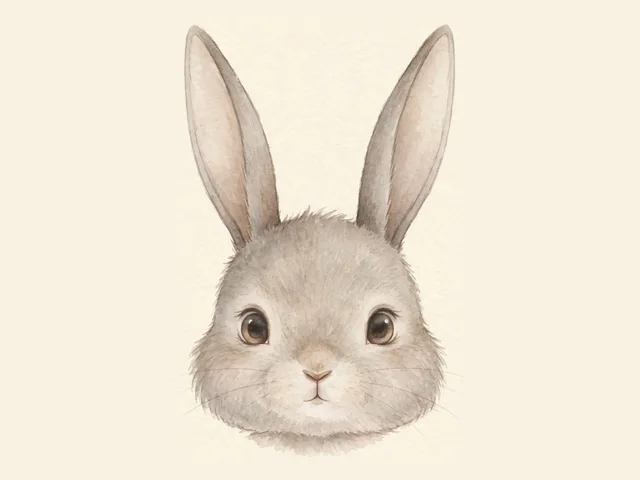
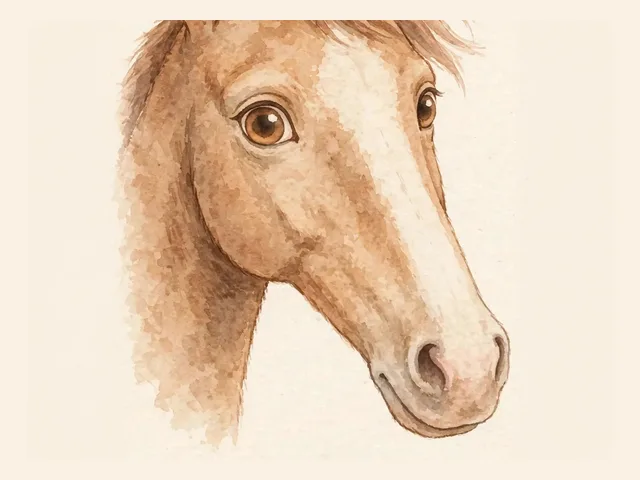
集まれ水女子の森｜水女子の共感・憩いの場を公開

diff --git a/inyo-quiz.html b/inyo-quiz.html
@@ -4,16 +4,16 @@
 <meta charset="UTF-8">
 <meta name="viewport" content="width=device-width, initial-scale=1.0">
 <title>陰陽クイズ｜集まれ水女子の森</title>
-<meta name="description" content="2つのものを比べて、陰陽を読む練習コーナーです。食べ物編・人間の体編・人間の顔編の3つで、陰陽メガネをかける練習をしてみましょう。">
+<meta name="description" content="2つのものを比べて、陰陽を読む練習コーナーです。食べ物編・人間の体編・顔編の3つで、陰陽メガネをかける練習をしてみましょう。">
 <link rel="canonical" href="https://mizujoshinomori.pages.dev/inyo-quiz">
 <meta property="og:title" content="陰陽クイズ｜集まれ水女子の森">
-<meta property="og:description" content="2つのものを比べて、陰陽を読む練習コーナーです。食べ物編・人間の体編・人間の顔編で、陰陽メガネの練習をしてみましょう。">
+<meta property="og:description" content="2つのものを比べて、陰陽を読む練習コーナーです。食べ物編・人間の体編・顔編で、陰陽メガネの練習をしてみましょう。">
 <meta property="og:type" content="website">
 <meta property="og:url" content="https://mizujoshinomori.pages.dev/inyo-quiz">
 <meta property="og:image" content="https://mizujoshinomori.pages.dev/ogp.jpg">
 <meta name="twitter:card" content="summary_large_image">
 <meta name="twitter:title" content="陰陽クイズ｜集まれ水女子の森">
-<meta name="twitter:description" content="2つのものを比べて、陰陽を読む練習コーナーです。食べ物編・人間の体編・人間の顔編で、陰陽メガネの練習をしてみましょう。">
+<meta name="twitter:description" content="2つのものを比べて、陰陽を読む練習コーナーです。食べ物編・人間の体編・顔編で、陰陽メガネの練習をしてみましょう。">
 <meta name="twitter:image" content="https://mizujoshinomori.pages.dev/ogp.jpg">
 <style>
   :root{ --ink:#2f3a2f; --sub:#4d5c4d; --green:#4a7c59; --green-deep:#33513c; --line:#dce8d8; --card:#ffffff; --bg:#f4f8f1;
@@ -108,7 +108,7 @@
   </div>
 
   <div class="hen-acc hen-face">
-    <button type="button" class="hen-acc-btn" id="hen-btn-face" aria-expanded="false" aria-controls="hen-panel-face">🙂 人間の顔編（5問）<span class="hen-acc-arrow">▾</span></button>
+    <button type="button" class="hen-acc-btn" id="hen-btn-face" aria-expanded="false" aria-controls="hen-panel-face">🙂 顔編（5問）<span class="hen-acc-arrow">▾</span></button>
     <div class="hen-acc-panel" id="hen-panel-face" hidden><div id="quiz-face"></div></div>
   </div>
 
@@ -123,7 +123,7 @@
 </div>
 <script>
 var FOOD = [
-{"tag":"全体の眺め","q":"野菜とお肉。全体で見ると、どっちが陽でしょう？","opts":[{"t":"野菜","img":"quiz-q1-yasai.webp","alt":"野菜がたくさん入ったかご"},{"t":"お肉","img":"quiz-q1-niku.webp","alt":"まな板の上のお肉"}],"ans":1,"soft":"野菜と感じるのも、自然な見方ですね。","exp":"お肉は、中心へギュッと集まった力の姿です。野菜全体と比べると、お肉の方が陽寄りですね。"},
+{"tag":"食べ物の種類","q":"野菜とお肉。種類で比べると、どっちが陽でしょう？","opts":[{"t":"野菜","img":"quiz-q1-yasai.webp","alt":"野菜がたくさん入ったかご"},{"t":"お肉","img":"quiz-q1-niku.webp","alt":"まな板の上のお肉"}],"ans":1,"soft":"野菜と感じるのも、自然な見方ですね。","exp":"お肉は、中心へギュッと集まった力の姿です。野菜と比べると、お肉の方が陽寄りですね。"},
 {"tag":"見方① 上か下か","q":"キャベツと人参。「上か下か」では、どっちが陽でしょう？","opts":[{"t":"キャベツ","img":"quiz-q2-cabbage.webp","alt":"地面の上で葉を広げるキャベツ"},{"t":"人参","img":"quiz-q2-carrot.webp","alt":"土の中をまっすぐ下へ伸びる人参"}],"ans":1,"soft":"キャベツと感じるのも、自然な見方ですね。","exp":"地面の下へ、中心へ向かって伸びる根ほど、陽寄りの姿です。人参の方が陽寄りですね。"},
 {"tag":"見方② 形","q":"ネギとキャベツ。「形」では、どっちが陽でしょう？","opts":[{"t":"ネギ","img":"quiz-q3-negi.webp","alt":"細く長く上に伸びるネギ"},{"t":"キャベツ","img":"quiz-q3-cabbage.webp","alt":"まん丸いキャベツ"}],"ans":1,"soft":"ネギと感じるのも、自然な見方ですね。","exp":"よりギュッと丸くまとまった形ほど、陽寄りの姿です。キャベツの方が陽寄りですね。"},
 {"tag":"見方③ 密度","q":"キャベツとレタス。「密度」では、どっちが陽でしょう？","opts":[{"t":"キャベツ","img":"quiz-q4-cabbage.webp","alt":"葉がギュッと詰まったキャベツの断面"},{"t":"レタス","img":"quiz-q4-lettuce.webp","alt":"葉がふわっと広がるレタス"}],"ans":0,"soft":"レタスと感じるのも、自然な見方ですね。","exp":"よりギュッと詰まって固いものほど、陽寄りです。キャベツの方が陽寄りですね。"},
@@ -142,11 +142,11 @@ var BODY = [
 {"tag":"4つのタイプ","q":"虚弱タイプとカチカチタイプ。どっちが陽でしょう？","opts":[{"t":"虚弱タイプ","img":"quiz-b5-kyojaku.webp","alt":"ふわっと細く力の入りにくい体つきの人"},{"t":"カチカチタイプ","img":"quiz-b5-kachikachi.webp","alt":"四角くギュッと固い体つきの人"}],"ans":1,"soft":"虚弱タイプと感じるのも、自然な見方ですね。","exp":"より四角くギュッと固まったカチカチタイプの方が陽寄り、ふわっと力の入りにくい虚弱タイプの方が陰寄りと見ますね。"}
 ];
 var FACE = [
-{"tag":"物差し「ふくらむ・ちぢまる」","q":"「ふくらむ・ちぢまる」では、どっちが陽でしょう？","opts":[{"t":"大きな丸い顔","img":"quiz-f1-maru.webp","alt":"大きくまん丸くふっくらした顔"},{"t":"小さな丸い顔","img":"quiz-f1-shimaru.webp","alt":"小さなまん丸い顔"}],"ans":1,"soft":"大きな丸い顔と感じるのも、自然な見方ですね。","exp":"より大きく丸くふっくら広がるものほど、陰寄りの姿です。この見方では、小さな丸い顔の方が陽寄りですね。"},
+{"tag":"物差し「大きさ」","q":"「大きさ」では、どっちが陽でしょう？","opts":[{"t":"大きな顔","img":"quiz-f1-maru.webp","alt":"大きな顔の人"},{"t":"小さな顔","img":"quiz-f1-shimaru.webp","alt":"小さな顔の人"}],"ans":0,"soft":"小さな顔と感じるのも、自然な見方ですね。","exp":"より顔が大きく、ドンと塊が大きいものほど、陽寄りの姿です。体と同じ、大きさの見方ですね。"},
 {"tag":"物差し「固い・ゆるい」","q":"「固い・ゆるい」では、どっちが陽でしょう？","opts":[{"t":"固い表情","img":"quiz-f2-katai.webp","alt":"ギュッと力が入った固い表情の顔"},{"t":"ゆるんだ表情","img":"quiz-f2-yurui.webp","alt":"ふわっとゆるんだ表情の顔"}],"ans":0,"soft":"ゆるんだ表情と感じるのも、自然な見方ですね。","exp":"よりギュッと力が入った固い表情ほど、陽寄りの姿です。固い表情の方が陽寄りですね。"},
-{"tag":"物差し「気持ちの上がる・下がる」","q":"「気持ちの上がる・下がる」では、どっちが陽でしょう？","opts":[{"t":"上がった顔","img":"quiz-f3-agaru.webp","alt":"上を向いて、気持ちが上がっていそうな顔"},{"t":"下がった顔","img":"quiz-f3-sagaru.webp","alt":"下を向いて、気持ちが沈んでいそうな顔"}],"ans":0,"soft":"下がった顔と感じるのも、自然な見方ですね。","exp":"顔の向きではなく、気持ちで読む見方です。より気持ちが上を向いているものほど陽寄りで、上がった顔の方が陽寄りですね。"},
+{"tag":"物差し「気分のあたたかさ」","q":"「気分のあたたかさ」では、どっちが陽でしょう？","opts":[{"t":"あたたかい顔","img":"quiz-f3-agaru.webp","alt":"明るくあたたかい表情の顔"},{"t":"落ち込んだ顔","img":"quiz-f3-sagaru.webp","alt":"落ち込んで沈んだ表情の顔"}],"ans":0,"soft":"落ち込んだ顔と感じるのも、自然な見方ですね。","exp":"より気分があたたかく明るいものほど、陽寄りの姿です。あたたかい顔の方が陽寄りですね。"},
 {"tag":"物差し「色の濃さ」","q":"「色の濃さ」では、どっちが陽でしょう？","opts":[{"t":"濃い顔色","img":"quiz-f4-koi.webp","alt":"色が濃くはっきりした顔"},{"t":"うすい顔色","img":"quiz-f4-usui.webp","alt":"色がうすく淡い顔"}],"ans":0,"soft":"うすい顔色と感じるのも、自然な見方ですね。","exp":"より色が濃くはっきりした顔ほど、陽寄りの姿です。昔の見方では「血が濃い・うすい」と表現しましたね。"},
-{"tag":"物差し「顔のパーツの寄り具合」","q":"「顔のパーツの寄り具合」では、どっちが陽でしょう？","opts":[{"t":"肉食動物の顔","img":"quiz-f5-marushimaru.webp","alt":"目やパーツが顔の真ん中にギュッと寄った肉食動物（猫）の顔"},{"t":"草食動物の顔","img":"quiz-f5-shimayurui.webp","alt":"目が頭の横に離れてついた草食動物（うさぎ）の顔"}],"ans":0,"soft":"草食動物の顔と感じるのも、自然な見方ですね。","exp":"より顔のパーツが真ん中にギュッと寄っているものほど、陽寄りの姿です。反対に、目が離れ気味に広がるほど、陰寄りに見えてきますね。"}
+{"tag":"物差し「顔のパーツの寄り具合」","q":"「顔のパーツの寄り具合」では、どっちが陽でしょう？","opts":[{"t":"肉食動物の顔","img":"quiz-f5-marushimaru.webp","alt":"目やパーツが顔の真ん中にギュッと寄った肉食動物（猫）の顔"},{"t":"草食動物の顔（馬）","img":"quiz-f5-shimayurui.webp","alt":"細長い顔で、目が離れてついた草食動物（馬）の顔"}],"ans":0,"soft":"草食動物の顔と感じるのも、自然な見方ですね。","exp":"より顔のパーツが真ん中にギュッと寄っているものほど、陽寄りの姿です。反対に、目が離れ気味に広がるほど、陰寄りに見えてきますね。"}
 ];
 var SETS = [
   { box: 'quiz-food', data: FOOD },
